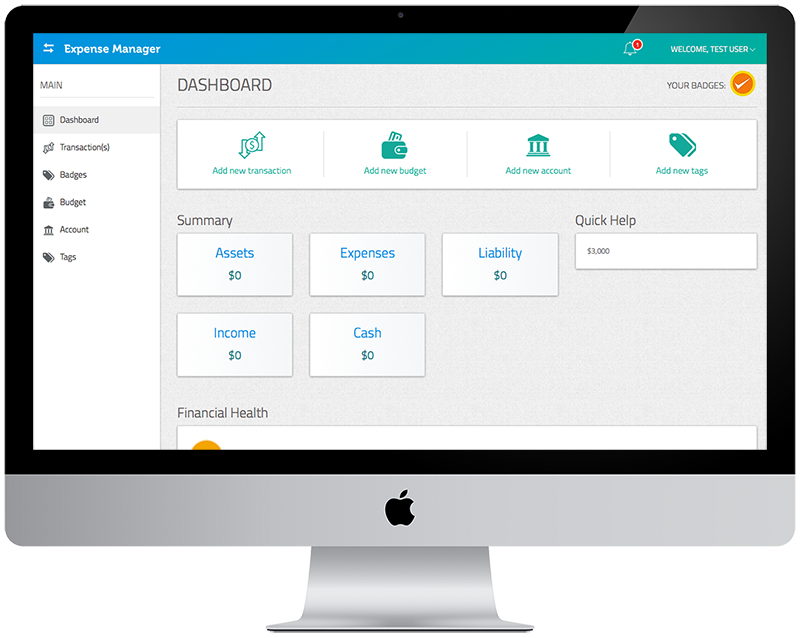
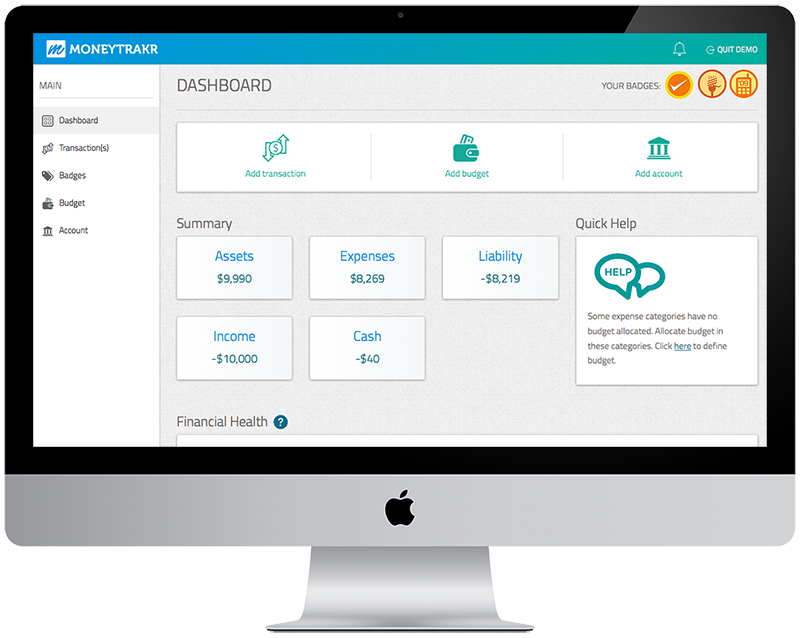
Adding UI items

diff --git a/public/css/main.css b/public/css/main.css
@@ -4228,6 +4228,9 @@ hr.dash {
 .helpGuide p {
   font-size: 16px;
 }
+.helpGuide a {
+  text-decoration: underline;
+}
 
 
 
